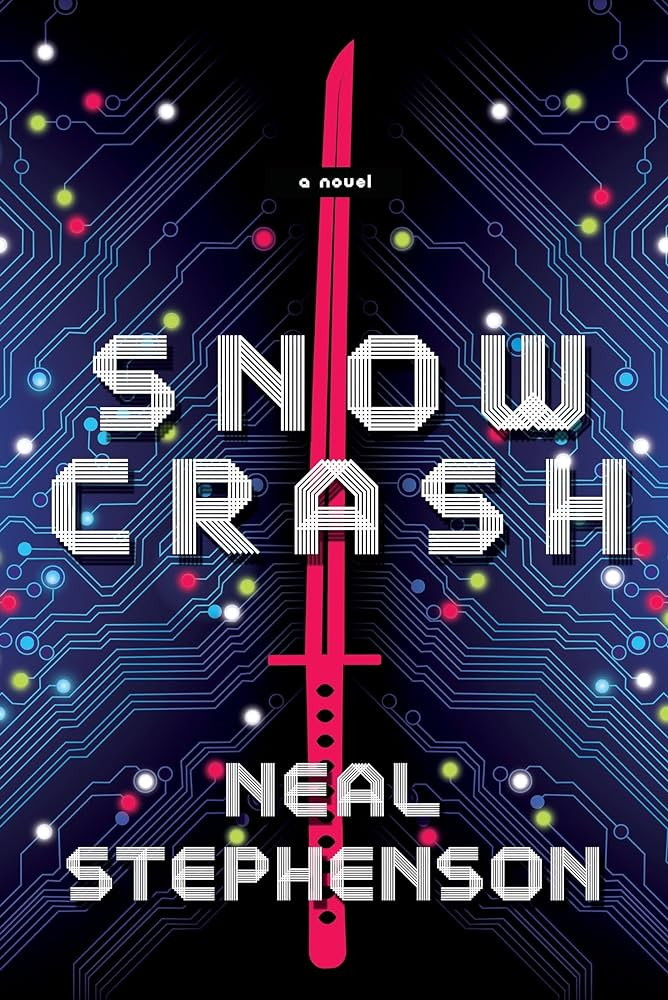
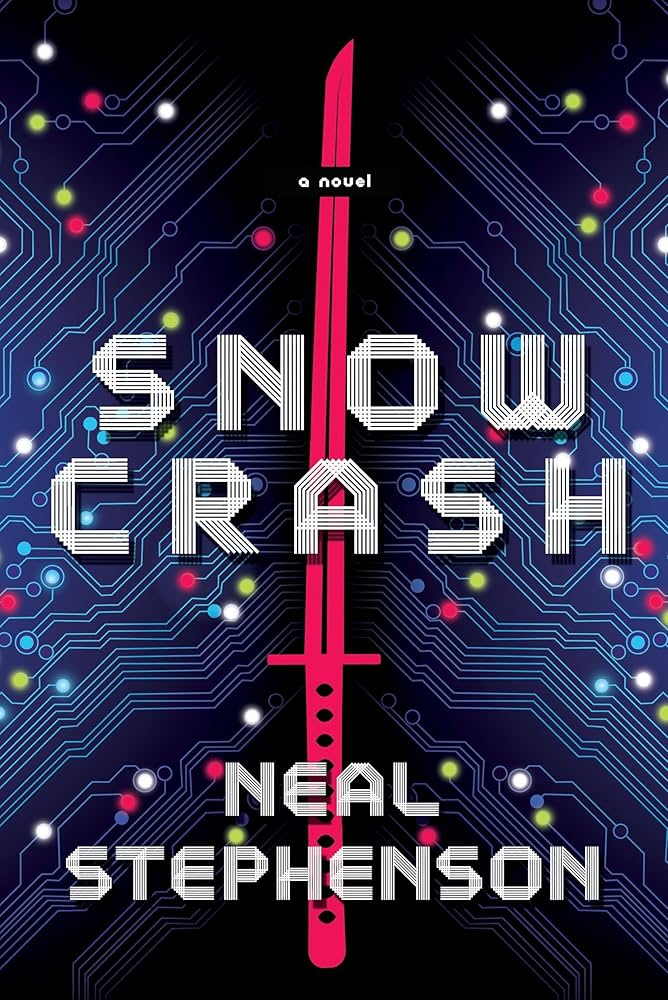
Medialog update (new images with different dimensions)

diff --git a/src/content/medialog/watching/the-ministry-of-ungentlemanly-warfare-2024.md b/src/content/medialog/watching/the-ministry-of-ungentlemanly-warfare-2024.md
@@ -3,11 +3,20 @@ title: "The Ministry of Ungentlemanly Warfare"
 link: "https://trakt.tv/movies/634646"
 subtitle: "2024"
 year: 2024
-rate: 7.0
-progress: "100%"
-image: 
+rate: 7
+progress: 100%
+image:
+image320:
+image640:
+image1024:
 poster-image: the-ministry-of-ungentlemanly-warfare-2024-poster.jpg
+poster-image320: the-ministry-of-ungentlemanly-warfare-2024-poster-320.jpg
+poster-image640: the-ministry-of-ungentlemanly-warfare-2024-poster-640.jpg
+poster-image1024: the-ministry-of-ungentlemanly-warfare-2024-poster-1024.jpg
 background-image: the-ministry-of-ungentlemanly-warfare-2024-background.jpg
+background-image320: the-ministry-of-ungentlemanly-warfare-2024-background-320.jpg
+background-image640: the-ministry-of-ungentlemanly-warfare-2024-background-640.jpg
+background-image1024: the-ministry-of-ungentlemanly-warfare-2024-background-1024.jpg
 date: 2024-07-29
 draft: false
 tags: watching

diff --git a/src/content/medialog/watching/alice-in-borderland-2020.md b/src/content/medialog/watching/alice-in-borderland-2020.md
@@ -5,11 +5,20 @@ subtitle: "2020"
 year: 2020
 rate: 7.5
 progress: "100%"
-episode: 
+episode:
 image: alice-in-borderland-2020-logo.jpg
+image320: alice-in-borderland-2020-logo-320.jpg
+image640: alice-in-borderland-2020-logo-640.jpg
+image1024: alice-in-borderland-2020-logo-1024.jpg
 poster-image: alice-in-borderland-2020-poster.jpg
+poster-image320: alice-in-borderland-2020-poster-320.jpg
+poster-image640: alice-in-borderland-2020-poster-640.jpg
+poster-image1024: alice-in-borderland-2020-poster-1024.jpg
 background-image: alice-in-borderland-2020-background.jpg
-date: 
+background-image320: alice-in-borderland-2020-background-320.jpg
+background-image640: alice-in-borderland-2020-background-640.jpg
+background-image1024: alice-in-borderland-2020-background-1024.jpg
+date:
 draft: false
 tags: watching
 ---

diff --git a/src/content/medialog/watching/my-hero-academia.md b/src/content/medialog/watching/my-hero-academia.md
@@ -5,11 +5,20 @@ subtitle: "2016"
 year: 2016
 rate: 7.0
 progress: "10%"
-episode: S01E7
+episode: S01E15
 image: my-hero-academia-logo.jpg
+image320: my-hero-academia-logo-320.jpg
+image640: my-hero-academia-logo-640.jpg
+image1024: my-hero-academia-logo-1024.jpg
 poster-image: my-hero-academia-poster.jpg
+poster-image320: my-hero-academia-poster-320.jpg
+poster-image640: my-hero-academia-poster-640.jpg
+poster-image1024: my-hero-academia-poster-1024.jpg
 background-image: my-hero-academia-background.jpg
-date: 2024-07-05
+background-image320: my-hero-academia-background-320.jpg
+background-image640: my-hero-academia-background-640.jpg
+background-image1024: my-hero-academia-background-1024.jpg
+date: "2024-07-22"
 draft: false
 tags: watching
 ---

diff --git a/src/content/medialog/watching/big-little-lies.md b/src/content/medialog/watching/big-little-lies.md
@@ -5,10 +5,19 @@ subtitle: "2017"
 year: 2017
 rate: 7.2
 progress: "25%"
-episode: "S01E4"
+episode: S01E4
 image: big-little-lies-logo.jpg
+image320: big-little-lies-logo-320.jpg
+image640: big-little-lies-logo-640.jpg
+image1024: big-little-lies-logo-1024.jpg
 poster-image: big-little-lies-poster.jpg
+poster-image320: big-little-lies-poster-320.jpg
+poster-image640: big-little-lies-poster-640.jpg
+poster-image1024: big-little-lies-poster-1024.jpg
 background-image: big-little-lies-background.jpg
+background-image320: big-little-lies-background-320.jpg
+background-image640: big-little-lies-background-640.jpg
+background-image1024: big-little-lies-background-1024.jpg
 date: "2024-10-13"
 draft: false
 tags: watching

diff --git a/src/content/medialog/watching/the-last-of-us.md b/src/content/medialog/watching/the-last-of-us.md
@@ -5,11 +5,20 @@ subtitle: "2023"
 year: 2023
 rate: 7.5
 progress: "100%"
-episode: 
+episode:
 image: the-last-of-us-logo.jpg
+image320: the-last-of-us-logo-320.jpg
+image640: the-last-of-us-logo-640.jpg
+image1024: the-last-of-us-logo-1024.jpg
 poster-image: the-last-of-us-poster.jpg
+poster-image320: the-last-of-us-poster-320.jpg
+poster-image640: the-last-of-us-poster-640.jpg
+poster-image1024: the-last-of-us-poster-1024.jpg
 background-image: the-last-of-us-background.jpg
-date: 
+background-image320: the-last-of-us-background-320.jpg
+background-image640: the-last-of-us-background-640.jpg
+background-image1024: the-last-of-us-background-1024.jpg
+date:
 draft: false
 tags: watching
 ---

diff --git a/src/content/medialog/watching/squid-game.md b/src/content/medialog/watching/squid-game.md
@@ -4,11 +4,20 @@ link: "https://trakt.tv/shows/162712"
 subtitle: "2021"
 year: 2021
 rate: 7.5
-progress: "100%"
+progress: 100%
 episode: 
 image: squid-game-logo.jpg
+image320: squid-game-logo-320.jpg
+image640: squid-game-logo-640.jpg
+image1024: squid-game-logo-1024.jpg
 poster-image: squid-game-poster.jpg
+poster-image320: squid-game-poster-320.jpg
+poster-image640: squid-game-poster-640.jpg
+poster-image1024: squid-game-poster-1024.jpg
 background-image: squid-game-background.jpg
+background-image320: squid-game-background-320.jpg
+background-image640: squid-game-background-640.jpg
+background-image1024: squid-game-background-1024.jpg
 date: 
 draft: false
 tags: watching

diff --git a/src/content/medialog/watching/solo-leveling.md b/src/content/medialog/watching/solo-leveling.md
@@ -7,9 +7,18 @@ rate: 6.0
 progress: "10%"
 episode: S01E01
 image: solo-leveling-logo.jpg
+image320: solo-leveling-logo-320.jpg
+image640: solo-leveling-logo-640.jpg
+image1024: solo-leveling-logo-1024.jpg
 poster-image: solo-leveling-poster.jpg
+poster-image320: solo-leveling-poster-320.jpg
+poster-image640: solo-leveling-poster-640.jpg
+poster-image1024: solo-leveling-poster-1024.jpg
 background-image: solo-leveling-background.jpg
-date: 2024-03-22
+background-image320: solo-leveling-background-320.jpg
+background-image640: solo-leveling-background-640.jpg
+background-image1024: solo-leveling-background-1024.jpg
+date: "2024-03-22"
 draft: false
 tags: watching
 ---

diff --git a/src/content/medialog/watching/one-piece.md b/src/content/medialog/watching/one-piece.md
@@ -5,11 +5,20 @@ subtitle: "1999"
 year: 1999
 rate: 7.0
 progress: "5%"
-episode: S01E14
+episode: S01E18
 image: one-piece-logo.jpg
+image320: one-piece-logo-320.jpg
+image640: one-piece-logo-640.jpg
+image1024: one-piece-logo-1024.jpg
 poster-image: one-piece-poster.jpg
+poster-image320: one-piece-poster-320.jpg
+poster-image640: one-piece-poster-640.jpg
+poster-image1024: one-piece-poster-1024.jpg
 background-image: one-piece-background.jpg
-date: 2024-07-02
+background-image320: one-piece-background-320.jpg
+background-image640: one-piece-background-640.jpg
+background-image1024: one-piece-background-1024.jpg
+date: "2024-07-11"
 draft: false
 tags: watching
 ---

diff --git a/src/content/medialog/watching/money-heist.md b/src/content/medialog/watching/money-heist.md
@@ -5,11 +5,20 @@ subtitle: "2017"
 year: 2017
 rate: 9.0
 progress: "100%"
-episode: 
+episode:
 image: money-heist-logo.jpg
+image320: money-heist-logo-320.jpg
+image640: money-heist-logo-640.jpg
+image1024: money-heist-logo-1024.jpg
 poster-image: money-heist-poster.jpg
+poster-image320: money-heist-poster-320.jpg
+poster-image640: money-heist-poster-640.jpg
+poster-image1024: money-heist-poster-1024.jpg
 background-image: money-heist-background.jpg
-date: 
+background-image320: money-heist-background-320.jpg
+background-image640: money-heist-background-640.jpg
+background-image1024: money-heist-background-1024.jpg
+date:
 draft: false
 tags: watching
 ---

diff --git a/src/content/medialog/watching/the-boys-2019.md b/src/content/medialog/watching/the-boys-2019.md
@@ -7,9 +7,18 @@ rate: 8.5
 progress: "5%"
 episode: S01E2
 image: the-boys-2019-logo.jpg
+image320: the-boys-2019-logo-320.jpg
+image640: the-boys-2019-logo-640.jpg
+image1024: the-boys-2019-logo-1024.jpg
 poster-image: the-boys-2019-poster.jpg
+poster-image320: the-boys-2019-poster-320.jpg
+poster-image640: the-boys-2019-poster-640.jpg
+poster-image1024: the-boys-2019-poster-1024.jpg
 background-image: the-boys-2019-background.jpg
-date: 
+background-image320: the-boys-2019-background-320.jpg
+background-image640: the-boys-2019-background-640.jpg
+background-image1024: the-boys-2019-background-1024.jpg
+date:
 draft: false
 tags: watching
 ---

diff --git a/src/content/medialog/watching/ted-lasso.md b/src/content/medialog/watching/ted-lasso.md
@@ -5,11 +5,20 @@ subtitle: "2020"
 year: 2020
 rate: 8.0
 progress: "100%"
-episode: 
+episode:
 image: ted-lasso-logo.jpg
+image320: ted-lasso-logo-320.jpg
+image640: ted-lasso-logo-640.jpg
+image1024: ted-lasso-logo-1024.jpg
 poster-image: ted-lasso-poster.jpg
+poster-image320: ted-lasso-poster-320.jpg
+poster-image640: ted-lasso-poster-640.jpg
+poster-image1024: ted-lasso-poster-1024.jpg
 background-image: ted-lasso-background.jpg
-date: 
+background-image320: ted-lasso-background-320.jpg
+background-image640: ted-lasso-background-640.jpg
+background-image1024: ted-lasso-background-1024.jpg
+date:
 draft: false
 tags: watching
 ---

diff --git a/src/content/medialog/watching/arcane.md b/src/content/medialog/watching/arcane.md
@@ -7,9 +7,18 @@ rate: 7.0
 progress: "65%"
 episode: S01E8
 image: arcane-logo.jpg
+image320: arcane-logo-320.jpg
+image640: arcane-logo-640.jpg
+image1024: arcane-logo-1024.jpg
 poster-image: arcane-poster.jpg
+poster-image320: arcane-poster-320.jpg
+poster-image640: arcane-poster-640.jpg
+poster-image1024: arcane-poster-1024.jpg
 background-image: arcane-background.jpg
-date: 2024-09-06
+background-image320: arcane-background-320.jpg
+background-image640: arcane-background-640.jpg
+background-image1024: arcane-background-1024.jpg
+date: "2024-09-06"
 draft: false
 tags: watching
 ---
